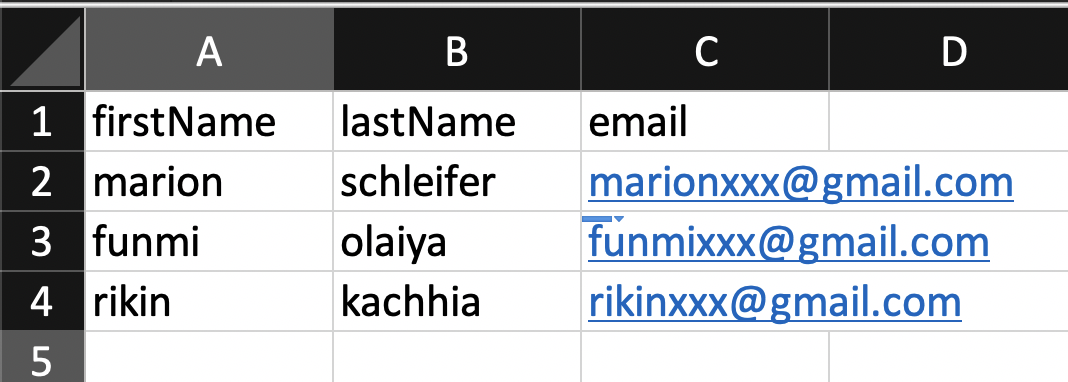
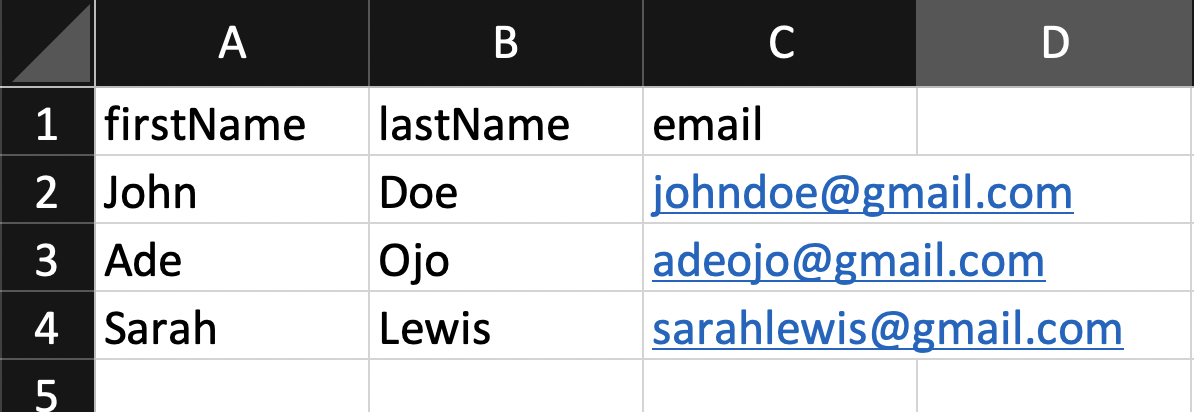
work on reviews

diff --git a/docs/graphql/core/guides/postgres/import-data.rst b/docs/graphql/core/guides/postgres/import-data.rst
@@ -15,27 +15,25 @@ Import data from CSV into Postgres
 Introduction
 -------------
 
-CSV files are plain text files that makes it easy for any developer to create and add data. 
-Also, the data are easy to import into any database. 
+It is possible to import a set of data from a ``csv`` file into a postgres table. 
 
-Step 1: Create a Postgres instance
-------------------------------------
 
-Create a postgres database and run the command below on the console/terminal to create a table callled ``profile``
-with the following set of fields.
+Step 1: Add a table to your PG database
+-----------------------------------------
+
+Let's create a table called ``profile`` with the following set of fields:
 
 .. code-block:: bash
 
   CREATE TABLE profile (firstName text, lastName text, email varchar);
 
-Step 2: Let's create a new CSV file that holds some data
----------------------------------------------------------
+Step 2: A CSV file that holds some data
+-----------------------------------------
 
-On the microsoft excel sheet, let's create a new file called ``profile``. 
-In the file, let us add a set of data like below:
+Let's assume you have a set of data you want to import into your PG database like the following:
 
 .. thumbnail:: /img/graphql/core/guides/sample-data-csv-file.png
-   :alt: Add data to .csv file
+   :alt: .csv data file
 
 .. note::
 
